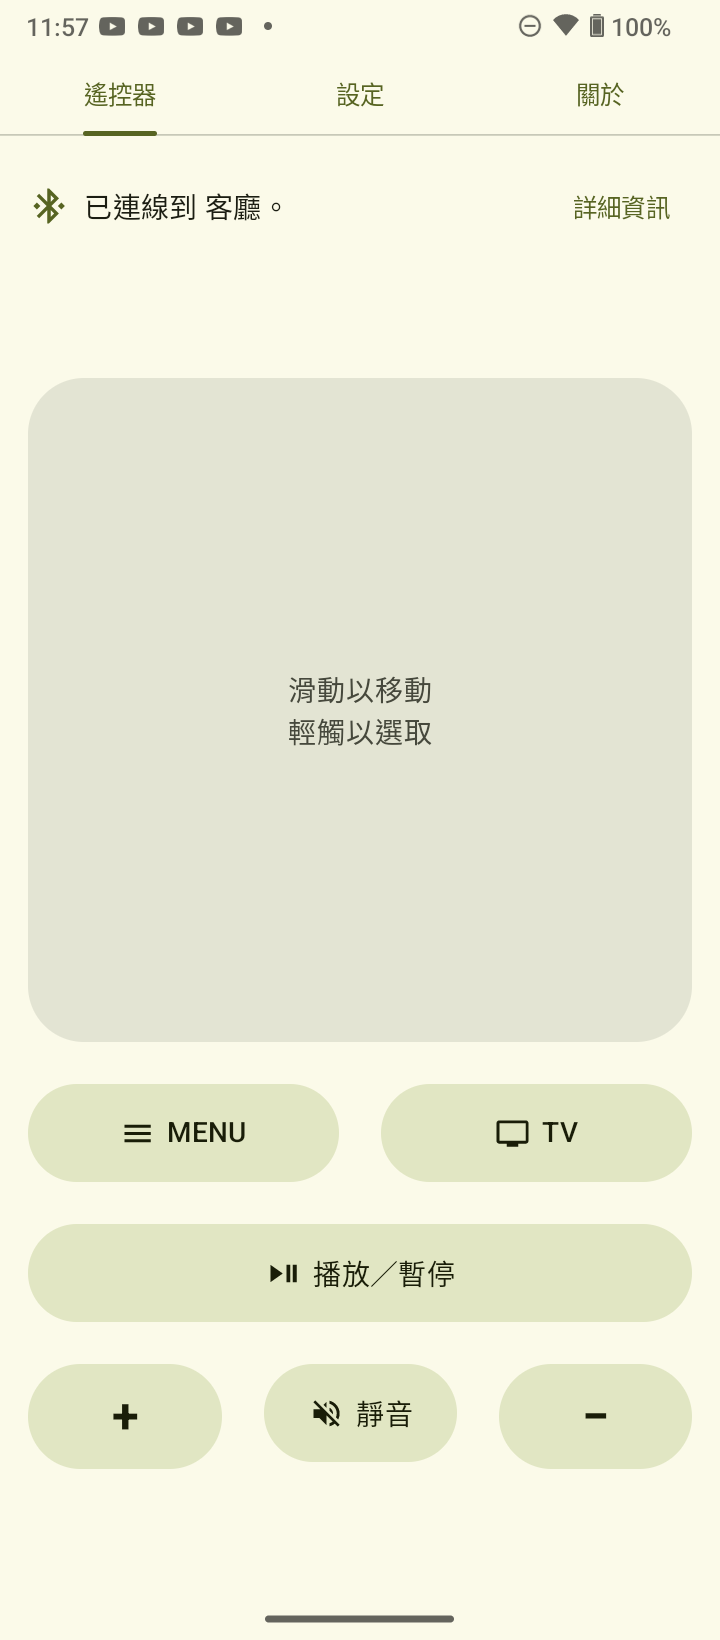
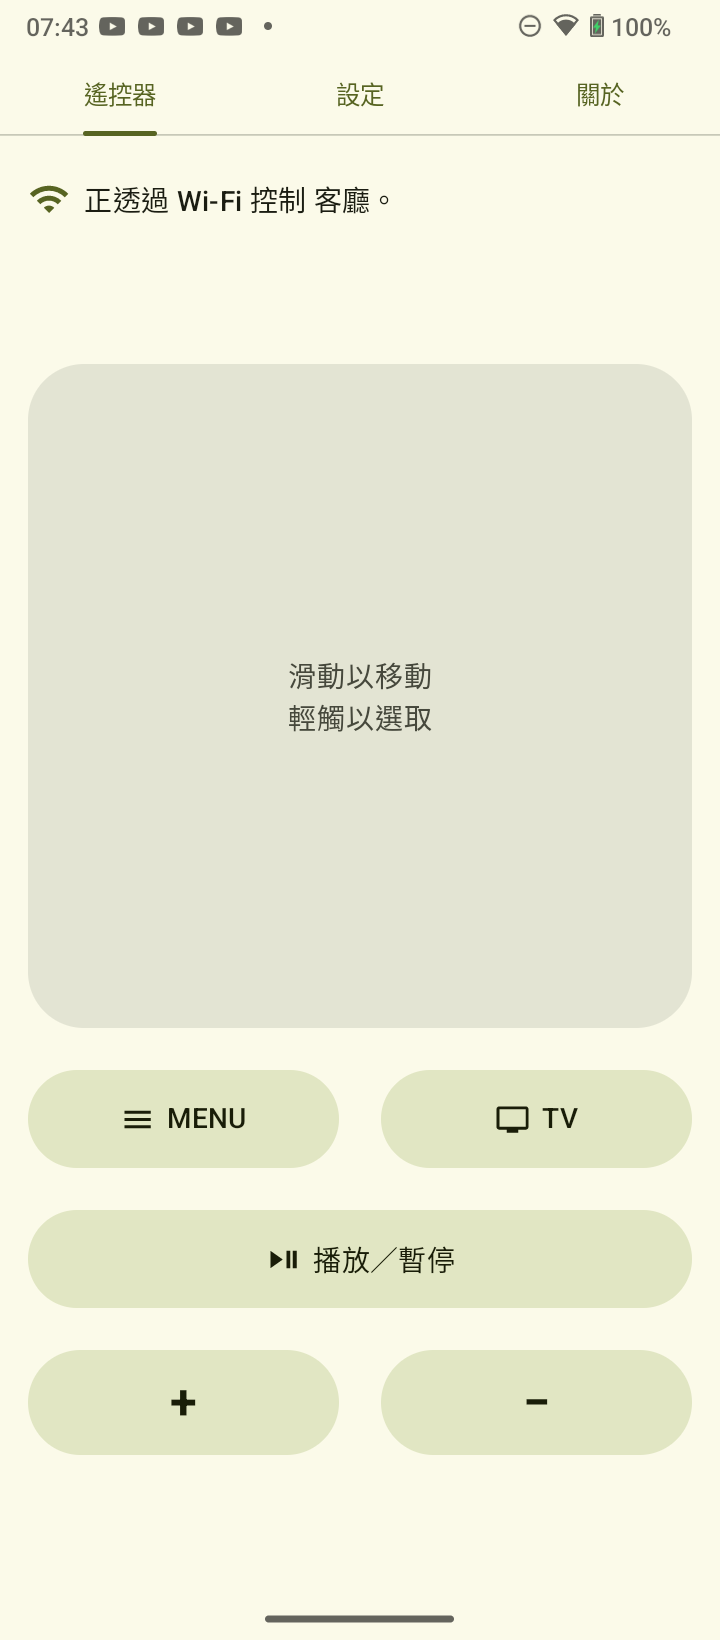
Replace the screenshots with the Wi-Fi remote

diff --git a/README.md b/README.md
@@ -22,12 +22,12 @@ Ringomote 已可供日常使用。透過網路與實際的 Apple TV 配對、App
 <img src="fastlane/metadata/android/en-US/images/phoneScreenshots/1-remote-compact.png" alt="The remote, compact layout, connected to an Apple TV" width="180">
 <img src="fastlane/metadata/android/en-US/images/phoneScreenshots/2-remote-spread.png" alt="The remote, spread-out layout" width="180">
 <img src="fastlane/metadata/android/en-US/images/phoneScreenshots/3-remote-dark.png" alt="The remote in the dark theme" width="180">
-<img src="fastlane/metadata/android/en-US/images/phoneScreenshots/4-settings.png" alt="The Settings tab: theme, dynamic colour, layout and Apple TVs" width="180">
+<img src="fastlane/metadata/android/en-US/images/phoneScreenshots/4-settings.png" alt="The Settings tab: theme, dynamic colour, layout, the phone's name and the paired Apple TV" width="180">
 </p>
 
-Left to right: the remote in the compact and spread-out layouts and in the dark theme, and the Settings tab. Taken on a Nokia G50 with dynamic colour on, so the palette follows the wallpaper. (The screenshots predate the move to Wi-Fi and will be refreshed.)
+Left to right: the remote in the compact and spread-out layouts and in the dark theme, controlling an Apple TV over Wi-Fi, and the Settings tab with the phone's name and the paired Apple TV. Taken on a Nokia G50 with dynamic colour on, so the palette follows the wallpaper.
 
-由左至右：緊湊與延伸至邊緣版面的遙控器、深色主題，以及「設定」分頁。於 Nokia G50 上擷取，開啟了動態色彩，因此配色跟隨桌布。（截圖攝於改用 Wi-Fi 之前，將會更新。）
+由左至右：緊湊與延伸至邊緣版面的遙控器、深色主題（皆正透過 Wi-Fi 控制 Apple TV），以及含手機名稱與已配對 Apple TV 的「設定」分頁。於 Nokia G50 上擷取，開啟了動態色彩，因此配色跟隨桌布。
 
 ## How it works 運作方式
 
